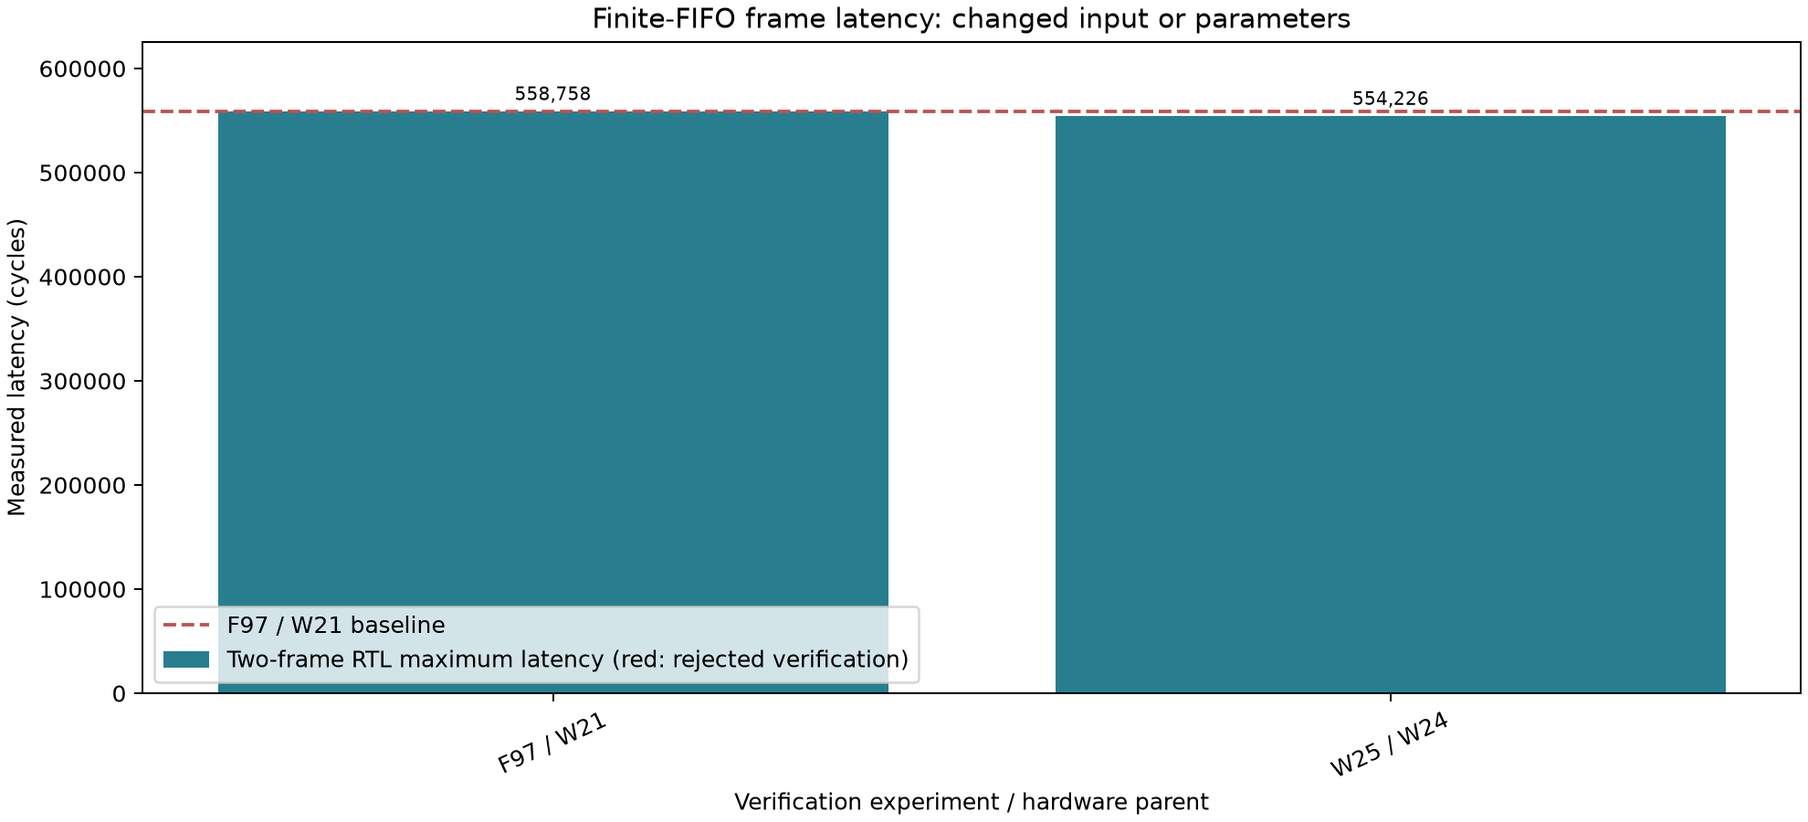
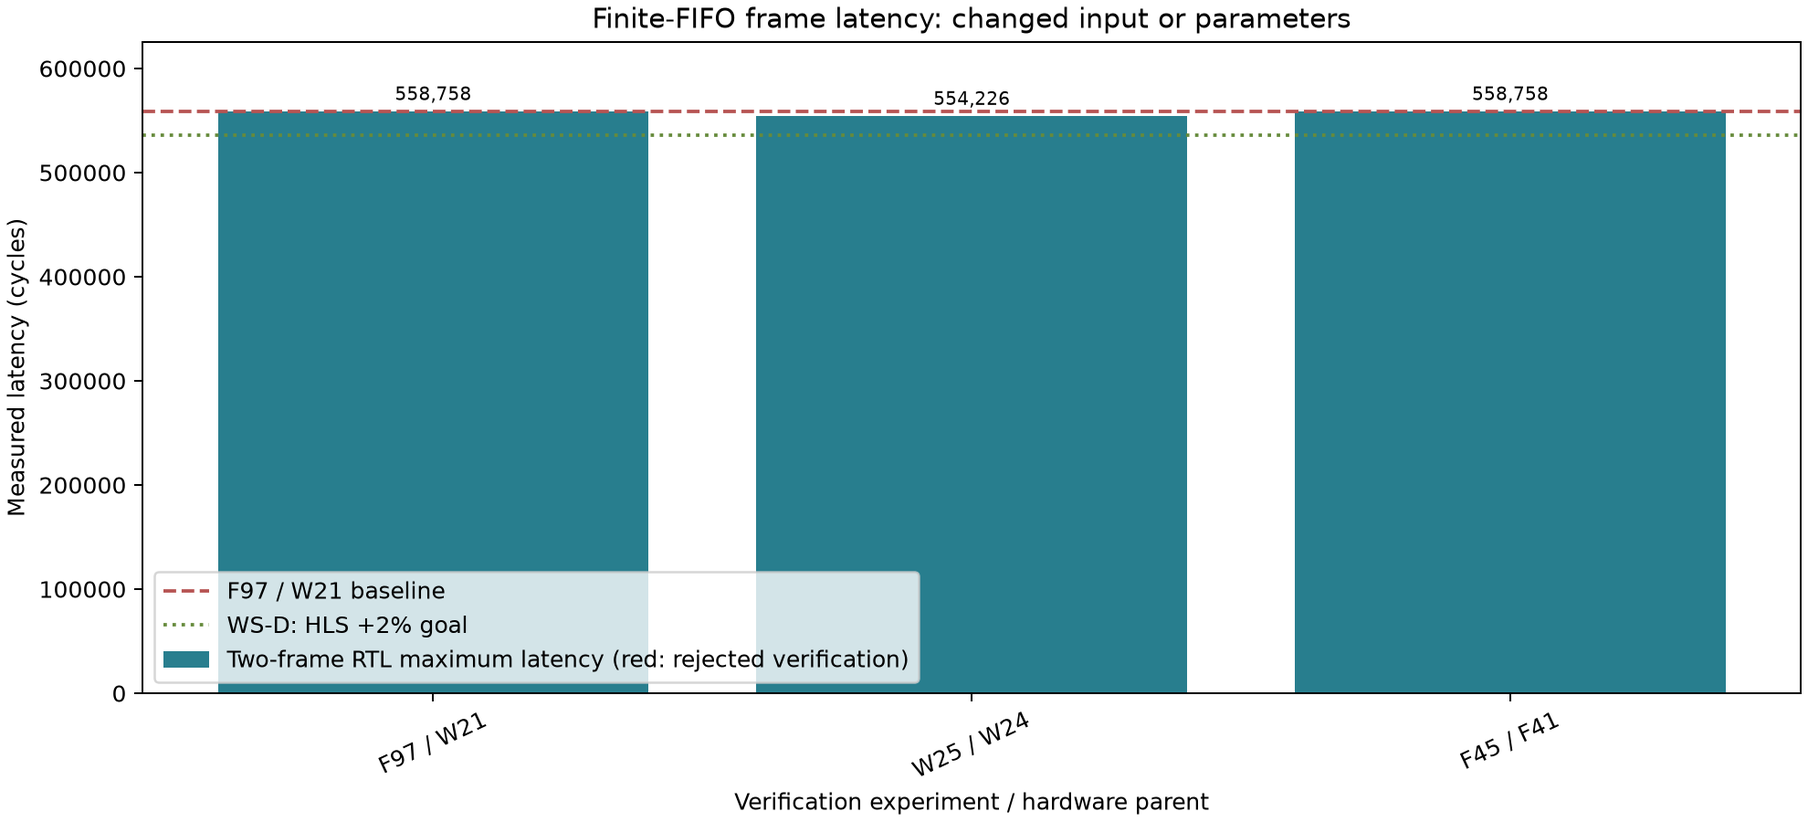
F49 current_decisions_and_verified_timing

diff --git a/exp/summarize_arch.py b/exp/summarize_arch.py
@@ -61,7 +61,9 @@ def main():
     ws_path = ROOT / "experiments/weight_loading_state.json"
     ws = json.loads(ws_path.read_text()) if ws_path.is_file() else None
     if ws:
-        text += "Weight loading and T8 follow-up: [WEIGHT_LOADING.md](WEIGHT_LOADING.md), following [docs/0004](../docs/0004-t8-weight-loading-plan.md). " + ws["next"] + "\n\n"
+        text += "Weight loading and T8 follow-up: [WEIGHT_LOADING.md](WEIGHT_LOADING.md), following [docs/0004](../docs/0004-t8-weight-loading-plan.md). "
+        text += ("That workstream is archived; current acceptance and remaining tasks follow docs/0005.\n\n"
+                 if rom_current else ws["next"] + "\n\n")
     if best:
         text += ("## HLS Screening Leader\n\n" if rom_current else "## Current Best\n\n")+markdown_table(linked([best]),[
             "id","design","precision_w_a_acc","T_target","clock_target_ns","clock_est_ns","latency_cycles",
@@ -98,6 +100,14 @@ def main():
     current_path = ROOT / "experiments/rom_clock_comparison.csv"
     if rom_current and current_path.is_file():
         current = list(csv.DictReader(current_path.open(newline="")))
+        verified = sorted((row for row in current if row.get("route_feasible") == "True" and
+                           number(row.get("rtl_frame_ms")) is not None),
+                          key=lambda row: number(row["rtl_frame_ms"]))
+        text += "\n## Current Verified IP Timing\n\n"
+        text += "Matching-parent successful RTL latency times an independently closed, resource-feasible routed clock. No DDR, driver or board measurement is included.\n\n"
+        text += markdown_table(linked(verified), ["id", "parent", "rtl_source", "rtl_cycles", "route_clock_ns",
+                                                 "route_WNS_ns", "route_DSP", "route_BRAM18K", "route_LUT",
+                                                 "route_FF", "rtl_frame_ms"])
         text += "\n## ROM, Clock, FIFO And T4\n\n"
         text += "Measured follow-up records from docs/0005; their routed acceptance remains separate from historical HLS statuses. "
         text += "WS-D functional cosimulation and its2% latency goal are separate columns. See [ROM_CLOCK.md](ROM_CLOCK.md) for counters and memory evidence.\n\n"
@@ -232,7 +242,8 @@ def main():
     failed = [row for row in arch if row["status"] not in {"pass","provisional","csim_pass","impl_complete","cosim_complete","analysis_complete"}]
     text += "\n## Failed Directions\n\n"+markdown_table(linked(failed),["id","series","status","failure_reason","notes"])
     text += "\n## Pending Human Decisions\n\n"
-    text += "- Supply the missing comic pair before complete14-image precision acceptance. All13 supplied pairs remain mandatory.\n"
+    text += ("- The user confirmed that the13 course-provided images are the complete test set; no comic input is pending.\n"
+             if rom_current else "- Supply the missing comic pair before complete14-image precision acceptance. All13 supplied pairs remain mandatory.\n")
     text += "- DDR sequential layers need explicit scratch pointers or an approved wrapper; global m_axi did not export ports in S01.\n"
     text += "- Runtime transformed-weight loading preserves the frozen top signature; true offline-transformed input parameters require an approved new weight contract.\n"
     text += "- Windows settings-batch execution and board integration remain unverified. The existing Linux Vitis2026.1 SSH installation was used.\n"
@@ -241,8 +252,11 @@ def main():
            for row in rows):
         text += "- Vivado internal synthesis workers exceeded the15GiB host memory budget in F81. F89 keeps the generated flow with per-run synthesis threads set to1; F90/F91 are deferred under the current workstream priority. Assess the archived route and memory evidence before changing hosts. No system swap/global tool settings were changed.\n"
     if ws:
-        text += "- Section6 unattended decision: preserve runtime float weights and HLS resource gates; keep missing-comic acceptance provisional. A repeated host OOM is archived without changing swap or moving to an unverified host. These decisions are recorded for user review tomorrow in [docs/0004](../docs/0004-t8-weight-loading-plan.md).\n"
-    text += "\n## Next Steps\n\nUse the best exact resource-feasible architecture as the integration candidate only after checking routed slack and finite-FIFO RTL evidence. Prioritize the measured limiting loop/path or memory bank; retain strict precision, border and resource gates. Complete the missing image and board/AXI system measurements before claiming deployable performance.\n"
+        text += ("- Current decisions supersede historical docs/0004 defaults: final feasibility uses routed gates, ROM remains exploratory, and the user authorized two concurrent tasks with actual memory telemetry. Board selection and measurements remain pending.\n"
+                 if rom_current else "- Section6 unattended decision: preserve runtime float weights and HLS resource gates; keep missing-comic acceptance provisional. A repeated host OOM is archived without changing swap or moving to an unverified host. These decisions are recorded for user review tomorrow in [docs/0004](../docs/0004-t8-weight-loading-plan.md).\n")
+    text += "\n## Next Steps\n\nUse the best exact resource-feasible architecture as the integration candidate only after checking routed slack and finite-FIFO RTL evidence. Prioritize the measured limiting loop/path or memory bank; retain strict precision, border and resource gates. "
+    text += ("Complete the queued docs/0005 RTL/routing comparisons and board/AXI system measurements before claiming deployable performance.\n"
+             if rom_current else "Complete the missing image and board/AXI system measurements before claiming deployable performance.\n")
     audit = ROOT / "experiments/weight_loading_audit.json"
     if not audit.is_file():
         audit = ROOT / "experiments/architecture_audit.json"

diff --git a/exp/update_arch_progress.py b/exp/update_arch_progress.py
@@ -62,13 +62,19 @@ def main():
     text += "## Outstanding\n\nExploration: "+(", ".join(pending) or "all required runs archived")+".\n\n"
     text += "Final verification: "+((", ".join(final_pending) or "all planned operations archived, including failures/timeouts") if selection else "awaiting global candidate selection")+".\n\n"
     if ws:
-        text += "## Weight Loading Workstream\n\nPlan: [docs/0004](../docs/0004-t8-weight-loading-plan.md). " + ws["next"] + "\n\n"
+        text += "## Weight Loading Workstream\n\nPlan: [docs/0004](../docs/0004-t8-weight-loading-plan.md). "
+        text += ("Archived. Current gates and next tasks are in docs/0005 and the active block above.\n\n"
+                 if rom_path.exists() else ws["next"] + "\n\n")
         text += "2026-10-12 用户决定降低优先级: F88/F90/F91. F88 was deliberately interrupted with SIGTERM to release the hardware slot; no RTL verdict or measured cycles exist. P14-P16/F86/F87 already completed before the new priority and remain archived. F85/P13 were recovered without rerunning.\n\n"
-        text += "Section 6 conservative decisions: preserve runtime float weights and HLS resource gates; keep missing comic explicitly provisional; if serial implementation OOM recurs, archive evidence and continue WS2 without changing host swap or using an unverified machine. Revisit these decisions with the user tomorrow.\n\n"
+        text += ("Current user decisions supersede the initial WS0 defaults: complete course set=13 images; final resources=routed; ROM=exploratory; scheduling=explicit two-task mode with actual memory telemetry. Runtime parameter interfaces, strict precision and no-push rules remain.\n\n"
+                 if rom_path.exists() else "Section 6 conservative decisions: preserve runtime float weights and HLS resource gates; keep missing comic explicitly provisional; if serial implementation OOM recurs, archive evidence and continue WS2 without changing host swap or using an unverified machine. Revisit these decisions with the user tomorrow.\n\n")
     text += ("P08 routed DSP48E2 inspection confirms one cell, AMULTSEL=AD and ADREG=1. " if state["packing_pre_adder_verified"] else "P08 needs actual DSP48E2 pre-adder/register inspection. ")
     text += "W10-W13/C07 split transformed-window generation from a fixed16384*(4*T) MAC loop to remove W07's conditional264x264 bound inflation. C08/C09 use independently verified Conv2-only8-bit weights, retain ten-bit activations, and omit coefficient residual repair. Vitis rejects the original8000-bit Conv3 stream at its4096-bit limit; F08-F12/W14-W16/C10-C11 use independent two4000-bit-stream retries with identical arithmetic. F13-F15 isolate Conv3 window rotation and tree-register overhead using F08's measured7013 multiplexer LUT. All new designs are independent; source and paper plans are committed before runs. Re-run CSV analyses, equivalent offline-weight archives and all plots after all evidence arrives. Finalize ARCH_SUMMARY.md, both checksum audits and final F99 commit.\n\n"
     text += "F24 independently rewrites only F23's Conv1 weight-loader indices after its report locates the2.822ns global critical path in a15-bit address multiplier; the dataflow region is2.377ns. Keep T16, quantization and inference fixed, account for nested-load restart overhead, and accept only measured exact/resource-feasible results.\n\n"
-    text += "## Recovery\n\nRead ARCH_SUMMARY.md, LOG.md, PHASE2_HANDOFF.md and arch_state.json. Check active local exec sessions and remote processes before resuming pending IDs; completed and active workspaces cannot be overwritten. SSH uses `ssh -F ../ssh-config -o BatchMode=yes xiaoxin-ubuntu`; remote root `/home/lipuze/amdprojects/90096_CNN_FPGA`; Vitis settings `/home/lipuze/amdfpga/2026.1/Vitis/settings64.sh`. Hardware jobs serialize through `.synthesis.lock` for15GiB RAM;60-minute csynth/45-minute issue tuning/six-hour cosim. Local plotting interpreter `workspace/exp_runs/_tools/venv/bin/python`. Never run script.py, modify protected data/designs, push, or substitute predicted results for actual evidence.\n"
+    text += "## Recovery\n\nRead ARCH_SUMMARY.md, LOG.md, PHASE2_HANDOFF.md and arch_state.json. Check active local exec sessions and remote processes before resuming pending IDs; completed and active workspaces cannot be overwritten. SSH uses `ssh -F ../ssh-config -o BatchMode=yes xiaoxin-ubuntu`; remote root `/home/lipuze/amdprojects/90096_CNN_FPGA`; Vitis settings `/home/lipuze/amdfpga/2026.1/Vitis/settings64.sh`. "
+    text += ("The current two-task scheduler uses `.memory_scheduler.json`; recover only provably unlaunched waiting workers with `exp/resume_waiting.py`, and collect completed jobs with `--collect-only`. "
+             if rom_path.exists() else "Hardware jobs serialize through `.synthesis.lock` for15GiB RAM. ")
+    text += "60-minute csynth/45-minute issue tuning/six-hour cosim. Local plotting interpreter `workspace/exp_runs/_tools/venv/bin/python`. Never run script.py, modify protected data/designs, push, or substitute predicted results for actual evidence.\n"
     (ROOT / "experiments/PROGRESS.md").write_text(text)
     if (ROOT / "experiments/rom_clock_state.json").exists():
         from summarize_rom_clock import main as summarize_current_workstream

diff --git a/experiments/ARCH_SUMMARY.md b/experiments/ARCH_SUMMARY.md
@@ -6,7 +6,7 @@ The lowest HLS estimate satisfying the original HLS resource screen is [W24](W24
 
 Re-run frozen HLS records with fresh IDs using the [reproduction guide](REPRODUCE.md). Original reserved IDs remain immutable.
 
-Weight loading and T8 follow-up: [WEIGHT_LOADING.md](WEIGHT_LOADING.md), following [docs/0004](../docs/0004-t8-weight-loading-plan.md). Review section6 decisions, missing comic and any failed route/RTL gates; use measured physical bottlenecks for the next independent design. No board acceptance or push.
+Weight loading and T8 follow-up: [WEIGHT_LOADING.md](WEIGHT_LOADING.md), following [docs/0004](../docs/0004-t8-weight-loading-plan.md). That workstream is archived; current acceptance and remaining tasks follow docs/0005.
 
 ## HLS Screening Leader
 
@@ -21,6 +21,15 @@ Actual verification of the current HLS winner:
 | id | operation | status | impl_target_clock_ns | impl_WNS_ns | timing_met | impl_DSP | impl_LUT | impl_FF | impl_BRAM36 | impl_URAM | rtl_status | rtl_latency_max | rtl_interval_max | cycle_deviation_pct |
 | --- | --- | --- | --- | --- | --- | --- | --- | --- | --- | --- | --- | --- | --- | --- |
 | [W25](W25_rom_changed_input_cosim_W24/W25.md) | cosim | cosim_complete | unknown | unknown | unknown | unknown | unknown | unknown | unknown | unknown | Pass | 554226.0 | 554237.0 | 5.701752712986097 |
+
+## Current Verified IP Timing
+
+Matching-parent successful RTL latency times an independently closed, resource-feasible routed clock. No DDR, driver or board measurement is included.
+
+| id | parent | rtl_source | rtl_cycles | route_clock_ns | route_WNS_ns | route_DSP | route_BRAM18K | route_LUT | route_FF | rtl_frame_ms |
+| --- | --- | --- | --- | --- | --- | --- | --- | --- | --- | --- |
+| [W22](W22_ws_clock_4p95_W21/W22.md) | W21 | F97 | 558758.0 | 4.95 | 0.047 | 644.0 | 109.0 | 42592.0 | 88806.0 | 2.7658521 |
+| [F98](F98_ws_impl_W21/F98.md) | W21 | F97 | 558758.0 | 5.0 | 0.14 | 644.0 | 109.0 | 42594.0 | 88806.0 | 2.79379 |
 
 ## ROM, Clock, FIFO And T4
 
@@ -44,7 +53,7 @@ Unmeasured plans have no actual result and do not enter rankings:
 
 | id | parent | operation | status | condition |
 | --- | --- | --- | --- | --- |
-| [W23](W23_ws_clock_strategy_4p5_W21/W23.md) | W21 | impl | unlaunched_conditional | unknown |
+| [W23](W23_ws_clock_strategy_4p5_W21/W23.md) | W21 | impl | queued_or_running | unknown |
 | [F43](F43_ws_cosim_F39/F43.md) | F39 | cosim | queued_or_running | unknown |
 | [F44](F44_ws_cosim_F40/F44.md) | F40 | cosim | queued_or_running | unknown |
 | [W28](W28_ws_cosim_W27/W28.md) | W27 | cosim | queued_or_running | unknown |
@@ -54,6 +63,7 @@ Unmeasured plans have no actual result and do not enter rankings:
 | [F46](F46_ws_cosim_F42/F46.md) | F42 | cosim | queued_or_running | unknown |
 | [C14](C14_ws_cosim_C13/C14.md) | C13 | cosim | queued_or_running | unknown |
 | [C15](C15_ws_impl_C13/C15.md) | C13 | impl | unlaunched_conditional | C14 mixed-precision changed-parameter RTL must pass before implementation; compare its frame product to W22 |
+| [F49](F49_ws_impl_F39/F49.md) | F39 | impl | unlaunched_conditional | F43 registeredConv3 changed-parameter RTL must pass the preplanned plus/minus1 percent cycle gate before implementation |
 
 ## P Direction
 
@@ -755,17 +765,17 @@ Routed timing closes for 1 selected implementation runs; 2 selected two-frame RT
 
 ## Pending Human Decisions
 
-- Supply the missing comic pair before complete14-image precision acceptance. All13 supplied pairs remain mandatory.
+- The user confirmed that the13 course-provided images are the complete test set; no comic input is pending.
 - DDR sequential layers need explicit scratch pointers or an approved wrapper; global m_axi did not export ports in S01.
 - Runtime transformed-weight loading preserves the frozen top signature; true offline-transformed input parameters require an approved new weight contract.
 - Windows settings-batch execution and board integration remain unverified. The existing Linux Vitis2026.1 SSH installation was used.
 - Review normalized-float PSNR against the original wrapping uint8 metric before external benchmark claims. See [LOG.md](LOG.md).
 - Vivado internal synthesis workers exceeded the15GiB host memory budget in F81. F89 keeps the generated flow with per-run synthesis threads set to1; F90/F91 are deferred under the current workstream priority. Assess the archived route and memory evidence before changing hosts. No system swap/global tool settings were changed.
-- Section6 unattended decision: preserve runtime float weights and HLS resource gates; keep missing-comic acceptance provisional. A repeated host OOM is archived without changing swap or moving to an unverified host. These decisions are recorded for user review tomorrow in [docs/0004](../docs/0004-t8-weight-loading-plan.md).
+- Current decisions supersede historical docs/0004 defaults: final feasibility uses routed gates, ROM remains exploratory, and the user authorized two concurrent tasks with actual memory telemetry. Board selection and measurements remain pending.
 
 ## Next Steps
 
-Use the best exact resource-feasible architecture as the integration candidate only after checking routed slack and finite-FIFO RTL evidence. Prioritize the measured limiting loop/path or memory bank; retain strict precision, border and resource gates. Complete the missing image and board/AXI system measurements before claiming deployable performance.
+Use the best exact resource-feasible architecture as the integration candidate only after checking routed slack and finite-FIFO RTL evidence. Prioritize the measured limiting loop/path or memory bank; retain strict precision, border and resource gates. Complete the queued docs/0005 RTL/routing comparisons and board/AXI system measurements before claiming deployable performance.
 
 ## Integrity Audit
 
@@ -792,4 +802,4 @@ Final local/remote original and first-phase source checksum and report-provenanc
 
 ![Conv3 core and pad resource comparison](figs/conv3_core_resources.png)
 
-Generated from archived evidence at 2026-10-12T07:05:37+00:00.
+Generated from archived evidence at 2026-10-12T07:14:21+00:00.

diff --git a/experiments/PROGRESS.md b/experiments/PROGRESS.md
@@ -10,7 +10,7 @@ See [ROM_CLOCK.md](ROM_CLOCK.md) and [rom_clock_state.json](rom_clock_state.json
 
 <!-- ROM_CLOCK_CURRENT -->
 
-Updated 2026-10-12T07:05:37+00:00 from archived measurements.
+Updated 2026-10-12T07:14:21+00:00 from archived measurements.
 
 Branch: `exp/explore-arch`, from phase-one final `2fa7249`. Original46 files and45 first-phase design files remain checksum protected. Preserve user README/.gitignore/docs-index edits.
 
@@ -26,15 +26,15 @@ Fastest resource-feasible exact frame estimate: [W24](W24_constant_rom_T8/W24.md
 
 Exploration: all required runs archived.
 
-Final verification: W23, F43, F44, W28, W29, W30, F48, F46, C14, C15.
+Final verification: W23, F43, F44, W28, W29, W30, F48, F46, C14, C15, F49.
 
 ## Weight Loading Workstream
 
-Plan: [docs/0004](../docs/0004-t8-weight-loading-plan.md). Review section6 decisions, missing comic and any failed route/RTL gates; use measured physical bottlenecks for the next independent design. No board acceptance or push.
+Plan: [docs/0004](../docs/0004-t8-weight-loading-plan.md). Archived. Current gates and next tasks are in docs/0005 and the active block above.
 
 2026-10-12 用户决定降低优先级: F88/F90/F91. F88 was deliberately interrupted with SIGTERM to release the hardware slot; no RTL verdict or measured cycles exist. P14-P16/F86/F87 already completed before the new priority and remain archived. F85/P13 were recovered without rerunning.
 
-Section 6 conservative decisions: preserve runtime float weights and HLS resource gates; keep missing comic explicitly provisional; if serial implementation OOM recurs, archive evidence and continue WS2 without changing host swap or using an unverified machine. Revisit these decisions with the user tomorrow.
+Current user decisions supersede the initial WS0 defaults: complete course set=13 images; final resources=routed; ROM=exploratory; scheduling=explicit two-task mode with actual memory telemetry. Runtime parameter interfaces, strict precision and no-push rules remain.
 
 P08 routed DSP48E2 inspection confirms one cell, AMULTSEL=AD and ADREG=1. W10-W13/C07 split transformed-window generation from a fixed16384*(4*T) MAC loop to remove W07's conditional264x264 bound inflation. C08/C09 use independently verified Conv2-only8-bit weights, retain ten-bit activations, and omit coefficient residual repair. Vitis rejects the original8000-bit Conv3 stream at its4096-bit limit; F08-F12/W14-W16/C10-C11 use independent two4000-bit-stream retries with identical arithmetic. F13-F15 isolate Conv3 window rotation and tree-register overhead using F08's measured7013 multiplexer LUT. All new designs are independent; source and paper plans are committed before runs. Re-run CSV analyses, equivalent offline-weight archives and all plots after all evidence arrives. Finalize ARCH_SUMMARY.md, both checksum audits and final F99 commit.
 
@@ -42,4 +42,4 @@ F24 independently rewrites only F23's Conv1 weight-loader indices after its repo
 
 ## Recovery
 
-Read ARCH_SUMMARY.md, LOG.md, PHASE2_HANDOFF.md and arch_state.json. Check active local exec sessions and remote processes before resuming pending IDs; completed and active workspaces cannot be overwritten. SSH uses `ssh -F ../ssh-config -o BatchMode=yes xiaoxin-ubuntu`; remote root `/home/lipuze/amdprojects/90096_CNN_FPGA`; Vitis settings `/home/lipuze/amdfpga/2026.1/Vitis/settings64.sh`. Hardware jobs serialize through `.synthesis.lock` for15GiB RAM;60-minute csynth/45-minute issue tuning/six-hour cosim. Local plotting interpreter `workspace/exp_runs/_tools/venv/bin/python`. Never run script.py, modify protected data/designs, push, or substitute predicted results for actual evidence.
+Read ARCH_SUMMARY.md, LOG.md, PHASE2_HANDOFF.md and arch_state.json. Check active local exec sessions and remote processes before resuming pending IDs; completed and active workspaces cannot be overwritten. SSH uses `ssh -F ../ssh-config -o BatchMode=yes xiaoxin-ubuntu`; remote root `/home/lipuze/amdprojects/90096_CNN_FPGA`; Vitis settings `/home/lipuze/amdfpga/2026.1/Vitis/settings64.sh`. The current two-task scheduler uses `.memory_scheduler.json`; recover only provably unlaunched waiting workers with `exp/resume_waiting.py`, and collect completed jobs with `--collect-only`. 60-minute csynth/45-minute issue tuning/six-hour cosim. Local plotting interpreter `workspace/exp_runs/_tools/venv/bin/python`. Never run script.py, modify protected data/designs, push, or substitute predicted results for actual evidence.

diff --git a/experiments/ROM_CLOCK.md b/experiments/ROM_CLOCK.md
@@ -1,6 +1,6 @@
 # ROM, clock, FIFO and T4 workstream
 
-Plan: [docs/0005](../docs/0005-rom-clock-t4-plan.md). Updated 2026-10-12T07:05:37+00:00.
+Plan: [docs/0005](../docs/0005-rom-clock-t4-plan.md). Updated 2026-10-12T07:14:21+00:00.
 
 Runtime-loaded W21 remains the mainline. ROM is an independent experiment. Set14 means the complete 13-image course-provided set. Final resource acceptance uses independent OOC routed timing/utilization; archived HLS statuses are unchanged. No board performance is inferred.
 
@@ -37,7 +37,7 @@ WS-D performance is separate from a successful functional cosimulation. With the
 
 | id | parent | operation | status | condition |
 | --- | --- | --- | --- | --- |
-| [W23](W23_ws_clock_strategy_4p5_W21/W23.md) | W21 | impl | unlaunched_conditional | unknown |
+| [W23](W23_ws_clock_strategy_4p5_W21/W23.md) | W21 | impl | queued_or_running | unknown |
 | [F43](F43_ws_cosim_F39/F43.md) | F39 | cosim | queued_or_running | unknown |
 | [F44](F44_ws_cosim_F40/F44.md) | F40 | cosim | queued_or_running | unknown |
 | [W28](W28_ws_cosim_W27/W28.md) | W27 | cosim | queued_or_running | unknown |
@@ -47,6 +47,7 @@ WS-D performance is separate from a successful functional cosimulation. With the
 | [F46](F46_ws_cosim_F42/F46.md) | F42 | cosim | queued_or_running | unknown |
 | [C14](C14_ws_cosim_C13/C14.md) | C13 | cosim | queued_or_running | unknown |
 | [C15](C15_ws_impl_C13/C15.md) | C13 | impl | unlaunched_conditional | C14 mixed-precision changed-parameter RTL must pass before implementation; compare its frame product to W22 |
+| [F49](F49_ws_impl_F39/F49.md) | F39 | impl | unlaunched_conditional | F43 registeredConv3 changed-parameter RTL must pass the preplanned plus/minus1 percent cycle gate before implementation |
 
 These plans have no result row. In particular, unlaunched implementation is neither a timeout nor a timing failure.
 

diff --git a/docs/0005-rom-clock-t4-plan.md b/docs/0005-rom-clock-t4-plan.md
@@ -270,7 +270,7 @@ agent 碰不到开发板，这一项负责准备交付物和记录结果：
 
 | id | parent | status | condition |
 | --- | --- | --- | --- |
-| W23 | W21 | unlaunched_conditional | unknown |
+| W23 | W21 | queued_or_running | unknown |
 | F43 | F39 | queued_or_running | unknown |
 | F44 | F40 | queued_or_running | unknown |
 | W28 | W27 | queued_or_running | unknown |
@@ -280,3 +280,4 @@ agent 碰不到开发板，这一项负责准备交付物和记录结果：
 | F46 | F42 | queued_or_running | unknown |
 | C14 | C13 | queued_or_running | unknown |
 | C15 | C13 | unlaunched_conditional | C14 mixed-precision changed-parameter RTL must pass before implementation; compare its frame product to W22 |
+| F49 | F39 | unlaunched_conditional | F43 registeredConv3 changed-parameter RTL must pass the preplanned plus/minus1 percent cycle gate before implementation |
